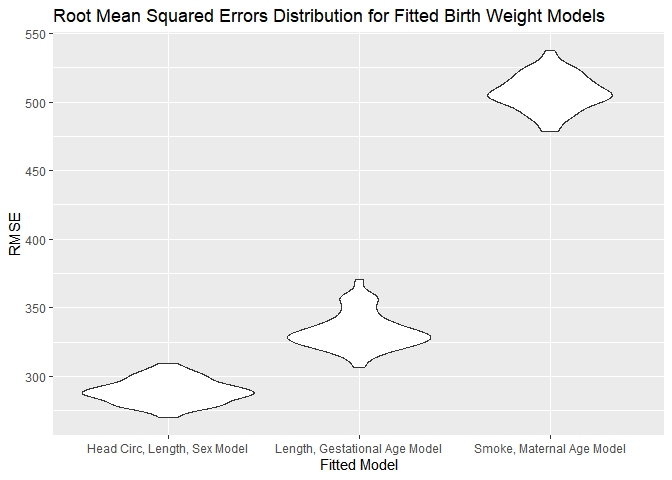
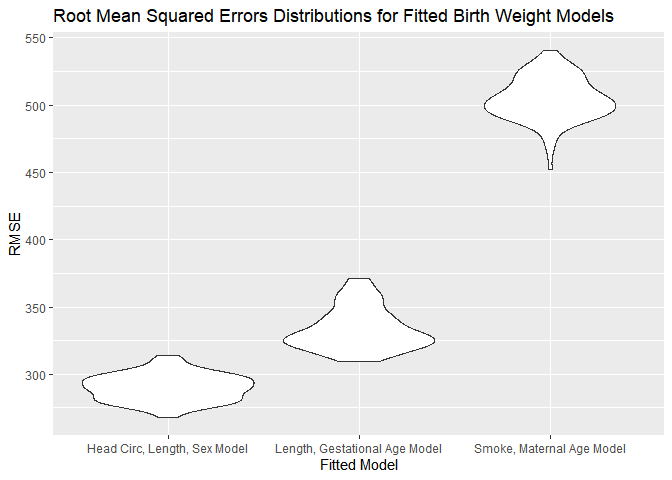
Problem 3 - Conclusion re: best fitted model with the most accurate predictions.

diff --git a/p8105_hw6_hw2852.md b/p8105_hw6_hw2852.md
@@ -322,13 +322,13 @@ We can now perform a comparison between the three models in terms of
 cross-validated prediction error. To do this, we first create a
 cross-validation data frame `cv_df`. Contained within `cv_df` is 2
 side-by-side list columns with the testing and training data split
-pairs, with a corresponding ID number to each pair. Since we are able to
-use resample objects directly into `lm` functions, we can skip the extra
-step of converting the testing and training data sets into tibbles.
-
+pairs, with a corresponding ID number for each pair. Since we are able
+to apply resample objects directly into `lm` functions, we can skip the
+extra step of converting the testing and training data into tibbles.
 Next, we apply the `map` function to map each regression model to the
-training data. We can then compute the root mean squared errors (RMSEs)
-for each model by applying the `map2_dbl` function to the testing data.
+training data. Finally, we can compute the root mean squared errors
+(RMSEs) for each model by applying the `map2_dbl` function to the
+testing data.
 
 ``` r
 cv_df = 
@@ -346,7 +346,10 @@ cv_df = cv_df %>%
 ```
 
 Using the output from the code above, we can see which of the three
-models is the best fit for birth weight data. To do so, we can
+models is the best fit for birth weight data by plotting the
+distribution of RMSEs generated from each model. This process involves
+first tidying the data using `pivot_longer`, then using `ggplot` and
+`geom_violin` to generate a violin plot.
 
 ``` r
 cv_df %>% 
@@ -359,7 +362,7 @@ cv_df %>%
   ggplot(aes(x = model, y = rmse)) +
   geom_violin() + 
   labs(
-    title = "Root Mean Squared Errors Distribution for Fitted Birth Weight Models", 
+    title = "Root Mean Squared Errors Distributions for Fitted Birth Weight Models", 
     x = "Fitted Model", 
     y = "RMSE") +
   scale_x_discrete(labels = c("bhead_blength_sex" = "Head Circ, Length, Sex Model", 
@@ -368,6 +371,19 @@ cv_df %>%
 ```
 
 ![](p8105_hw6_hw2852_files/figure-gfm/unnamed-chunk-9-1.png)<!-- -->
+Based on the distributions depicted above, we can conclude that the
+model with head circumference, length, sex and all interactions between
+those variables is able to generate better predictions than the model
+with length and gestational age, and the model with smoking and maternal
+age. Having said that, however, due to the very large RMSEs generated
+from all three fitted models, none of the three generate especially
+accurate predictions on birth weight. This is likely due to the fact
+that birth weight is affected by a myriad of factors that were unable to
+be captured in the three models above. Such factors include, but are
+certainly not limited to, environmental determinants, genetic
+predispositions, and pregnancy diet. In order to generate a better
+fitted model to predict birth weight, several additional predictors
+should be included in future analyses.
 
 ## References
 
